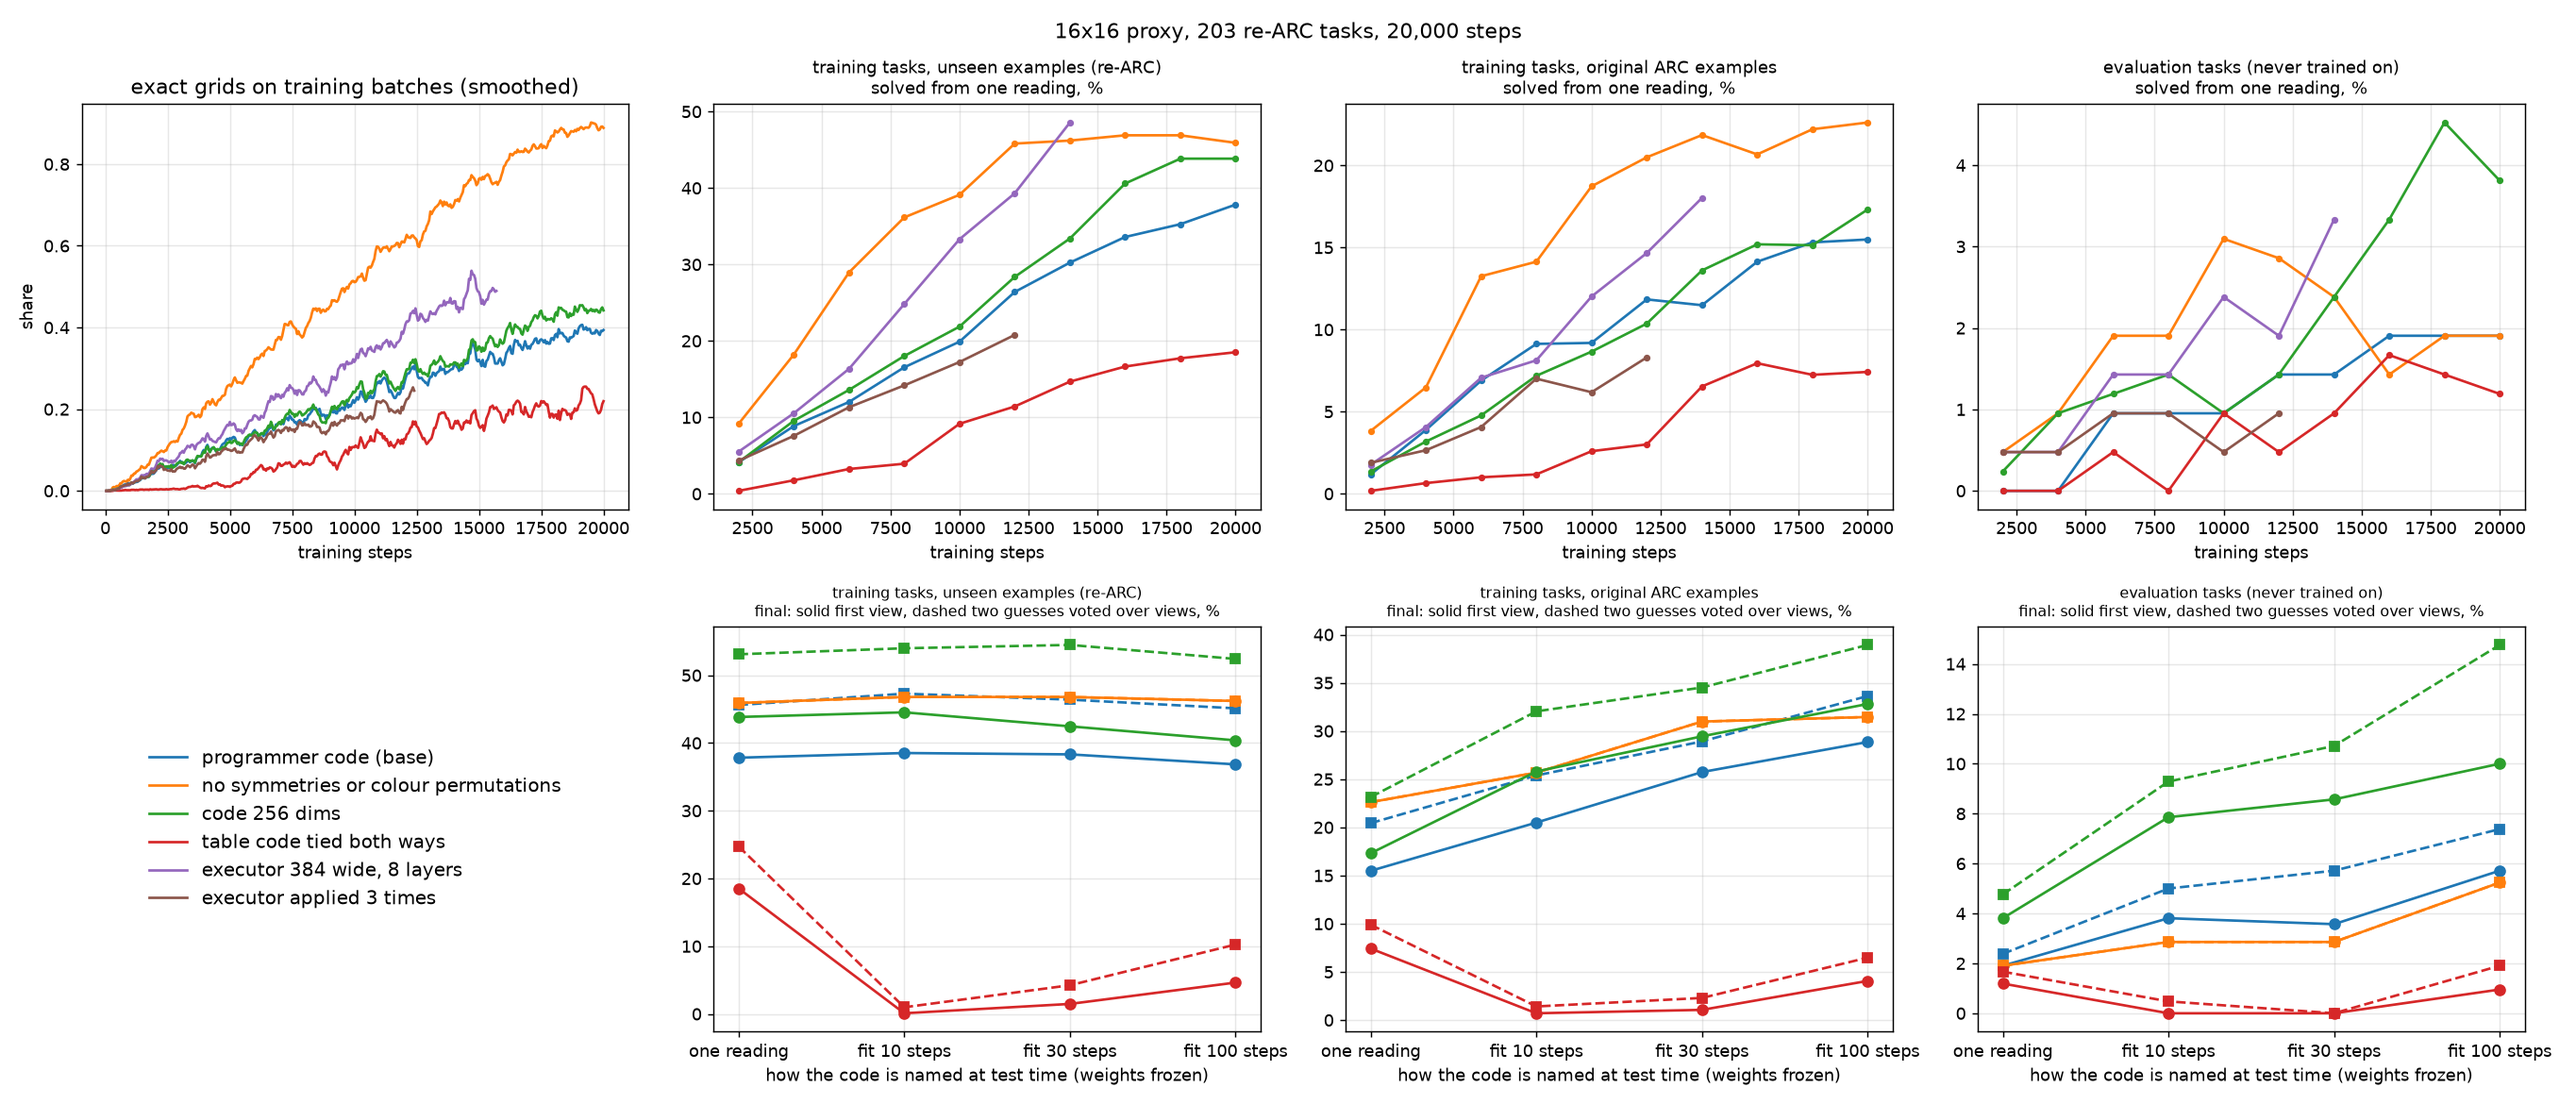
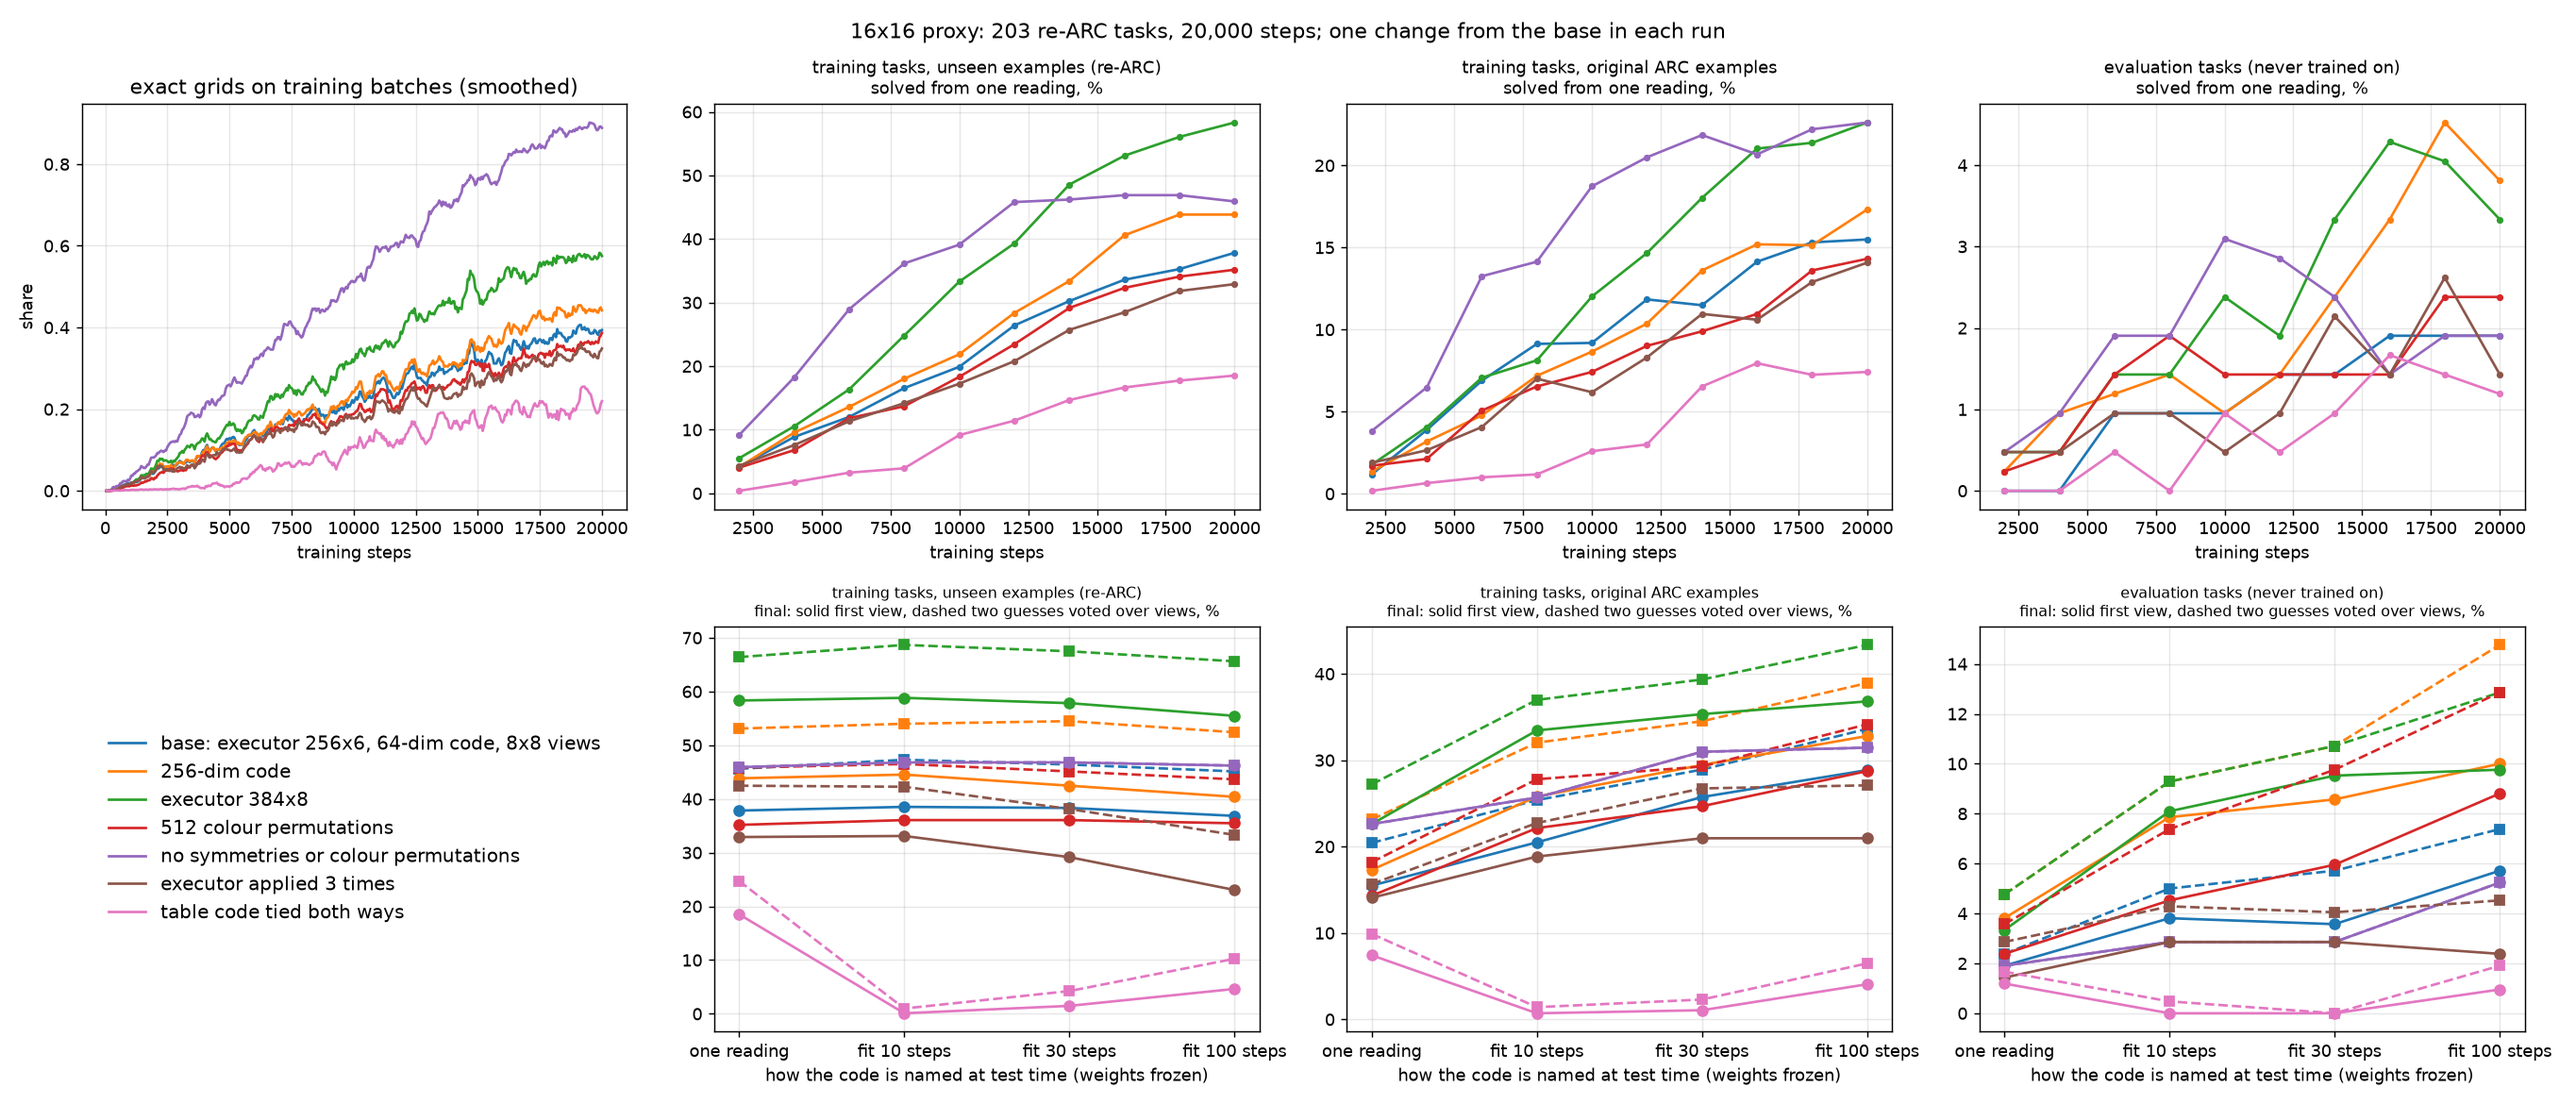
ARC: proxy and joint-sleep figures with all finished runs

diff --git a/scripts/arc/sleep_curves.py b/scripts/arc/sleep_curves.py
@@ -44,6 +44,8 @@ def main() -> None:
         for ax, (split, way, _) in zip(axes, PANELS):
             points = [(0, before.get(f"final/{split}/{way}"))] + [(row["step"], row.get(f"during/{split}/{way}")) for row in evals if f"during/{split}/zero" in row]
             points = [(s, v) for s, v in points if v is not None]
+            if not points:
+                continue
             ax.plot([p[0] for p in points], [100 * p[1] for p in points], marker="o", ms=3, color=f"C{index}", label=label)
             line[f"{split} {way}"] = f"{100 * points[0][1]:.1f} to {100 * points[-1][1]:.1f}"
         final = next((row for row in reversed(evals) if any(k.startswith("final/") for k in row)), None)
